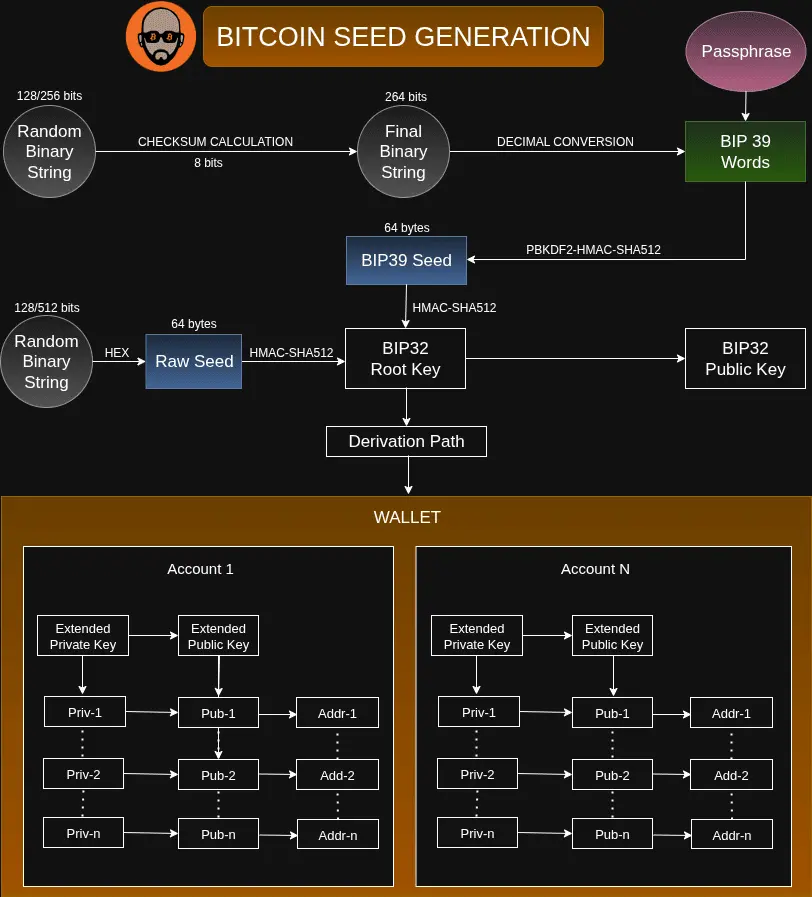
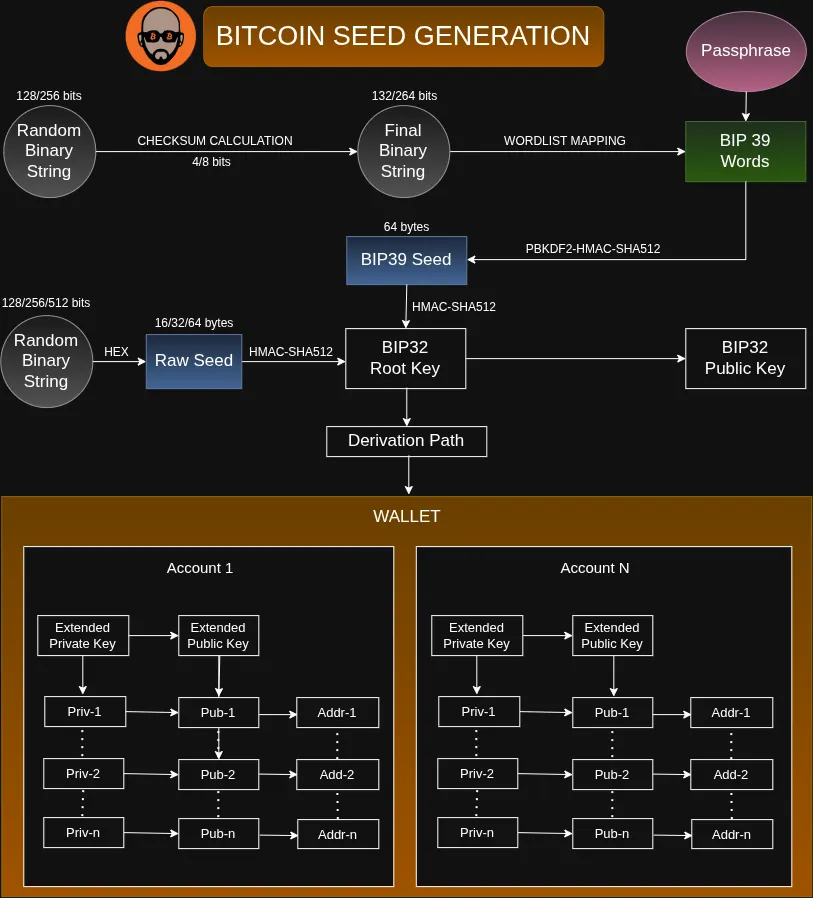
improved dice roll guide

diff --git a/src/data/schema/howTo.js b/src/data/schema/howTo.js
@@ -128,28 +128,33 @@ export const howToSchemas = {
     steps: [
       {
         name: "Roll Dice for Entropy",
-        text: "Roll dice 99 times to generate 256 bits of true random entropy. Record each roll as binary (1-3 = 0, 4-6 = 1).",
+        text: "Collect 256 individual die results to generate 256 bits of true random entropy. Record each die as binary (1-3 = 0, 4-6 = 1) in 23 rows of 11 bits plus 3 bits on row 24.",
         url: `${SITE_URL}/docs/learn/keys/random/#step-1-roll-dice-for-entropy`,
       },
       {
         name: "Convert Binary to Decimal",
-        text: "Split your binary string into 11-bit chunks and convert each chunk to a decimal number (0-2047).",
+        text: "Convert each of the first 23 eleven-bit rows to a decimal number (0-2047). Row 24 is incomplete until the checksum is calculated.",
         url: `${SITE_URL}/docs/learn/keys/random/#step-2-convert-binary-to-decimal`,
       },
       {
         name: "Calculate Checksum",
-        text: "Use SHA256 to calculate the checksum bits that complete your 24th word.",
+        text: "Hash your 256 bits with SHA-256 in bits mode to get the 8 checksum bits that complete row 24, then convert row 24 to decimal.",
         url: `${SITE_URL}/docs/learn/keys/random/#step-3-calculate-the-checksum`,
       },
       {
         name: "Look Up BIP39 Words",
-        text: "Convert each decimal number to its corresponding BIP39 word to create your 24-word seed phrase.",
+        text: "Convert each of the 24 decimal numbers to its corresponding BIP39 word to create your 24-word seed phrase.",
         url: `${SITE_URL}/docs/learn/keys/random/#step-4-look-up-bip39-words`,
       },
       {
+        name: "Verify Your Seed Phrase",
+        text: "Enter the 24 words into an offline wallet such as Sparrow. Acceptance confirms the checksum and the whole chain of calculations.",
+        url: `${SITE_URL}/docs/learn/keys/random/#step-5-verify-your-seed-phrase`,
+      },
+      {
         name: "Backup Your Seed",
-        text: "Stamp or engrave your seed phrase onto a metal plate for fireproof, waterproof storage.",
-        url: `${SITE_URL}/docs/learn/keys/random/#step-5-back-up-on-metal`,
+        text: "Stamp or engrave your seed phrase onto a metal plate for fireproof, waterproof storage, then destroy the paper records.",
+        url: `${SITE_URL}/docs/learn/keys/random/#step-6-back-up-on-metal`,
       },
     ],
   },

diff --git a/docs/learn/keys/random.md b/docs/learn/keys/random.md
@@ -29,8 +29,10 @@ Common fatal errors:
 In this guide you will:
 
 - Generate true randomness using physical dice rolls
-- Convert binary entropy to BIP39 seed words
-- Calculate and verify your checksum
+- Convert your binary entropy into decimal numbers
+- Calculate the checksum that completes the final word
+- Look up all 24 BIP39 seed words
+- Verify the finished seed in an offline wallet
 - Securely back up your seed phrase on metal
 
 **Time required:** 2–4 hours
@@ -102,7 +104,13 @@ Your seed generation environment **must** meet ALL of these requirements:
 
 ### Casino dice
 
-Casino-grade dice are ideal for generating true randomness. You don't strictly need expensive dice. Any standard six-sided dice will work, even with small biases, as long as you use several at a time. Using 5–10 dice per roll speeds the process up dramatically.
+Casino-grade dice are precision-machined with flush, filled pips, so every face weighs the same. Cheaper pipped dice have material drilled out for each pip, which makes some faces very slightly more likely than others.
+
+That bias is small and not fatal here: across 256 bits, a fraction-of-a-percent bias per face costs a negligible amount of entropy. Casino dice simply remove the question, and they are cheap.
+
+:::note More dice is about speed, not fairness
+Rolling several dice at once does **not** cancel out a die's bias. Each die still produces its own slightly biased bit. Using 5–10 dice per throw is purely a speed optimization: it collects 5–10 bits per throw instead of 1.
+:::
 
 ![Dice](/img/seed/dice.webp)
 
@@ -112,6 +120,8 @@ An air-gapped computer is a device that has never been connected to the internet
 
 - **Raspberry Pi Zero 1.3**: Highly recommended because it lacks built-in Wi-Fi and Bluetooth, reducing attack surfaces. Harder to find these days, but worth the hunt.
 - **Laptop or PC**: A machine with the Wi-Fi and Bluetooth modules physically removed and the Ethernet port permanently disabled. Even if stolen, an attacker cannot put it back online to extract the private key.
+
+You genuinely need a computer for this process. Step 1, 2, and 4 can be done with paper and pen, but **Step 3 computes a SHA-256 hash, which cannot be done by hand.**
 
 ![Raspberry Pi Zero](/img/seed/rpizero.webp)
 
@@ -126,18 +136,39 @@ Once your seed phrase is created, it should be permanently stored on a fireproof
 ![Metal seed backup](/img/seed/metalseed.webp)
 
 
+## How the Numbers Fit Together
+
+Before you start rolling, it helps to see where the process is going. A 24-word BIP39 seed is **264 bits**, and those bits come from two different places:
+
+<div class="fixed-width-table">
+
+| Where it comes from | Bits | Step |
+|---|---|---|
+| Dice rolls (your entropy) | 256 | Step 1 |
+| Checksum, calculated from those 256 bits | 8 | Step 3 |
+| **Total** | **264** | 264 ÷ 11 = **24 words** |
+
+</div>
+
+You will write your 256 dice bits into a grid of 24 rows, 11 bits per row. That fills 23 rows completely (23 × 11 = 253) and leaves **3 bits** in row 24. Row 24 stays unfinished until Step 3, when the checksum supplies its last 8 bits.
+
+This is why the steps must be done in order: **row 24 does not have a value until Step 3.**
+
+
 ## Step 1: Roll Dice for Entropy
 
-Our goal is to generate a large, truly random binary number by rolling the dice.
+Your goal is to generate a large, truly random binary number by rolling dice.
 
 ### Assign binary values
 
-Before rolling, decide how each roll is converted into a binary value. This mapping gives an equal probability of 0 or 1:
+Before rolling, decide how each die is converted into a binary value. This mapping gives an equal probability of 0 or 1:
 
 - If the die lands on **1, 2, or 3**, it is assigned a value of **0**.
 - If the die lands on **4, 5, or 6**, it is assigned a value of **1**.
 
 ### Roll and record
+
+You need **256 individual die results**, one per bit. With 5 dice that is about 52 throws; with 10 dice, about 26. Stop once you have 256 bits and discard any extras from the final throw.
 
 Roll the dice and record the results from left to right. Consistency is key: always read in the same order. If it is unclear which die is further to the left, re-roll those dice.
 
@@ -147,10 +178,11 @@ It is crucial that the data is truly random. If it lacks randomness, there is a 
 
 ### Format the output
 
-Create 23 rows of 11 binary digits each, plus a final 24th row containing only 3 digits (the remaining 8 bits of the 24th row will be filled in later by the checksum).
+Write your 256 bits into 23 rows of 11 binary digits, plus a 24th row that will hold only 3 digits for now.
 
-- For readability, separate each row into three groups: 4-4-3 (e.g., `1011 1000 101`).
-- Keep the numbers aligned in columns and leave space between rows for manual calculations later.
+- For readability, separate each full row into three groups: 4-4-3 (e.g., `1011 1000 101`).
+- Keep the numbers aligned in columns and leave space to the right of each row for the calculations in Step 2.
+- **Leave the rest of row 24 blank.** Its final 8 digits are filled in by the checksum in Step 3.
 
 <div class="fixed-width-table">
 
@@ -183,22 +215,28 @@ Create 23 rows of 11 binary digits each, plus a final 24th row containing only 3
 
 </div>
 
-You have now generated 256 bits of entropy (23 full rows of 11 bits + 3 bits on the 24th row). Each 11-bit segment will be converted into one BIP39 seed word later.
+You have now generated your 256 bits of entropy: 23 full rows of 11 bits, plus 3 bits in row 24.
 
-Dividing 256 bits by 11 gives 23.27 words, which is not a whole number. To get a clean 24-word seed, we need eight more bits, bringing the total to 264 bits (24 × 11). Those final 8 bits come from the checksum calculated in Step 3.
+**Do not roll dice for the remaining 8 bits.** They are not random data. They are the checksum, and they must be *calculated* from the 256 bits above so your wallet can detect typos later.
 
 
 ## Step 2: Convert Binary to Decimal
 
-Each of the 24 rows of 11 binary digits must be converted to a decimal number **manually** on your air-gapped computer or by using paper and pen. Never use an online tool. Copying your binary string into a web calculator could expose your seed.
+Convert **rows 1 through 23** to decimal. Each 11-bit row becomes one number, which you will use in Step 4 to look up a seed word.
 
-With 11 binary digits, the smallest number is 0 (`00000000000`) and the largest is 2047 (`11111111111`). Each decimal result will therefore fall in the range 0–2047.
+:::caution Row 24 is not ready yet
+Row 24 still has only 3 of its 11 bits, so it has no value at this stage. You will complete and convert it in Step 3. Skip it for now.
+:::
+
+Do the conversion **manually** on your air-gapped computer or with paper and pen. Never use an online tool. Copying your binary string into a web calculator could expose your seed.
+
+With 11 binary digits, the smallest number is 0 (`00000000000`) and the largest is 2047 (`11111111111`). Each result will therefore fall in the range 0–2047.
 
 You can convert in either of two ways.
 
 ### Method A: air-gapped shell
 
-For example, to convert the first line, `10111000101`, type:
+In a bash terminal, to convert the first row, `10111000101`, type:
 
 ```bash
 echo $((2#10111000101))
@@ -223,7 +261,7 @@ For example, to convert the first row, `10111000101`:
 1024 + 0 + 256 + 128 + 64 + 0 + 0 + 0 + 4 + 0 + 1 = 1477
 ```
 
-Repeat this process for all 24 rows. You will now have 24 decimal numbers, each in the range 0–2047.
+Repeat this for rows 1 through 23. You will have 23 decimal numbers, each in the range 0–2047.
 
 <div class="fixed-width-table">
 
@@ -252,34 +290,60 @@ Repeat this process for all 24 rows. You will now have 24 decimal numbers, each 
 |**21)**|0|0|1|0|1|0|0|0|1|0|1|<span style={{ color: "#da6000" }}>**325**</span>|
 |**22)**|1|0|1|1|1|0|1|0|1|0|1|<span style={{ color: "#da6000" }}>**1493**</span>|
 |**23)**|1|0|0|1|1|0|0|0|1|0|1|<span style={{ color: "#da6000" }}>**1221**</span>|
-|**24)**|0|0|1|0|1|0|1|0|0|1|0|<span style={{ color: "#da6000" }}>**338**</span>|
+|**24)**|0|0|1|–|–|–|–|–|–|–|–|*Step 3*|
 
 </div>
 
 
 ## Step 3: Calculate the Checksum
 
-The last eight missing digits are calculated from the 256 bits you have so far, creating what is called a **checksum**. A checksum is a short verification code that lets your wallet detect if you have made a typo when entering the seed. If the checksum doesn't match, the wallet will warn you that something is wrong.
+The 8 missing digits in row 24 are calculated from the 256 bits you rolled in Step 1. Together they form a **checksum**: a short verification code that lets your wallet detect if you have made a typo when entering the seed. If the checksum doesn't match, the wallet warns you that something is wrong.
+
+### Write out your 256 bits as one line
+
+Read your grid from Step 1 straight through, row 1 to row 24, left to right, with no spaces and no line breaks. Rows 1–23 contribute 11 bits each and row 24 contributes its 3 bits, for 256 characters total.
+
+For our example:
+
+```text
+1011100010111011100100101111001110110100010111111010101111110010000010000010110111000101101010101001011101110111111000101011110011101011101010010011000111101110001111111101110100011000101101010001101111101010011111000100001010001011011101010110011000101001
+```
+
+Count the characters before continuing. If you don't have exactly 256, the hash will be wrong and so will your seed.
 
 ### Generate the hash output
 
-On your air-gapped Linux machine, open a terminal and feed your 256-bit binary string into SHA-256. Replace the example digits with your own binary string; it must be one continuous line:
+On your air-gapped Linux machine, feed that 256-bit string into SHA-256:
 
 ```bash
 echo 1011100010111011100100101111001110110100010111111010101111110010000010000010110111000101101010101001011101110111111000101011110011101011101010010011000111101110001111111101110100011000101101010001101111101010011111000100001010001011011101010110011000101001 | shasum -a 256 -0
 ```
 
-This command takes your binary sequence, applies the SHA-256 hash function, and produces a unique hexadecimal output. Our example output:
+Our example output:
 
 ```text
[1 lines of base64/hex data omitted]
+52831c8346d7423d26648b51490f2d7ae0ddf172956f241a6bb8bdc0d887c292 ^-
 ```
 
-The checksum is the first **8 bits** of that hash, which means we only care about the **first two hexadecimal characters**: `52`.
+:::danger The `-0` flag is not optional
+`-0` (also written `--01`) puts `shasum` into **BITS mode**, where each `0` and `1` character is treated as an actual bit. BIP39 requires hashing the 256 raw bits, not the text `"1011…"`.
+
+Drop the `-0` and the command still runs and still prints a perfectly normal-looking hash, but it is the hash of 256 ASCII characters instead: `03ab8729…` rather than `52831c83…`. That produces a wrong checksum, a wrong 24th word, and an invalid seed phrase. The `^` in the output above is `shasum` confirming BITS mode was used.
+
+If `shasum` is unavailable, this gives the same result:
+
+```bash
+python3 -c "import hashlib; b='YOUR_256_BITS'; print(hashlib.sha256(int(b,2).to_bytes(32,'big')).hexdigest())"
+```
+
+Running both and comparing is a good way to catch a mistyped bit string.
+:::
+
+The checksum is the first **8 bits** of that hash, which means you only care about the **first two hexadecimal characters**: `52`.
 
 ### Convert the first two hex characters to binary
 
-We need to convert the two hexadecimal digits `5` and `2` into their 4-bit binary equivalents. Hexadecimal is a number system that uses 0–9 plus a–f to represent values 0–15.
+Convert the two hexadecimal digits `5` and `2` into their 4-bit binary equivalents. Hexadecimal is a number system that uses 0–9 plus a–f to represent values 0–15.
 
 <div class="fixed-width-table">
 
@@ -309,7 +373,11 @@ From the table:
 - **5** in binary is **0101** (4 bits)
 - **2** in binary is **0010** (4 bits)
 
-Concatenated, the checksum is **`01010010`** (8 bits). Append it to the 24th row so the row now has 11 bits, completing the 264-bit sequence.
+Concatenated, the checksum is **`01010010`** (8 bits).
+
+### Complete row 24
+
+Append those 8 bits to the 3 bits already in row 24. It now holds 11 bits and your grid is complete at 264 bits:
 
 <div class="fixed-width-table">
 
@@ -342,12 +410,18 @@ Concatenated, the checksum is **`01010010`** (8 bits). Append it to the 24th row
 
 </div>
 
-Now convert row 24 from binary to decimal using the same method as Step 2. That gives the final decimal value of row 24 (in our example, **338**).
+Now convert row 24 to decimal using the same method as Step 2. In our example, `00101010010` gives:
+
+```text
+0 + 0 + 256 + 0 + 64 + 0 + 16 + 0 + 0 + 2 + 0 = 338
+```
+
+You now have all **24 decimal numbers**: 23 from Step 2, plus 338 from row 24.
 
 
 ## Step 4: Look Up BIP39 Words
 
-BIP39 (Bitcoin Improvement Proposal 39) defines a list of **2048 words**, arranged alphabetically. Each word corresponds to a specific position. Your 24 decimal numbers (from Step 2 and the checksum row in Step 3) are used to look up your 24 seed words.
+BIP39 (Bitcoin Improvement Proposal 39) defines a list of **2048 words**, arranged alphabetically. Each word corresponds to a specific position, and each of your 24 decimal numbers points at one word.
 
 - The smallest possible value is 0 (binary `00000000000`), which corresponds to the word **"abandon"**, the first word on the list.
 - The largest possible value is 2047 (binary `11111111111`), which corresponds to the word **"zoo"**, the last word on the list.
@@ -356,7 +430,7 @@ BIP39 (Bitcoin Improvement Proposal 39) defines a list of **2048 words**, arrang
 Computers count from 0. The BIP39 position of "abandon" is 0, not 1. However, the [official BIP39 word list](https://github.com/bitcoin/bips/blob/master/bip-0039/english.txt) on GitHub displays line numbers starting from 1. So a BIP39 position of 1477 maps to **GitHub line 1478**. Always add 1 to your decimal when searching the GitHub file.
 :::
 
-For example, the first 11-bit binary number we calculated equals 1477 in decimal. On GitHub you will find it on line 1478: the word is **"reward"**.
+For example, the first row's decimal is 1477. On GitHub you will find it on line 1478: the word is **"reward"**.
 
 Look up each decimal value below (remembering to add 1 when searching GitHub) and record the corresponding word for all 24 rows.
 
@@ -391,16 +465,26 @@ Look up each decimal value below (remembering to add 1 when searching GitHub) an
 
 </div>
 
-Congratulations, you have now created a valid 24-word Bitcoin mnemonic seed.
+:::warning Order is part of the seed
+The words must stay in this exact order. The same 24 words in a different order is a completely different (and empty) wallet. Number every word as you write it down.
+:::
 
-### Verify the seed in Sparrow Wallet
+You have now created a 24-word Bitcoin mnemonic seed. The next step confirms it is valid.
 
-As a final sanity check, install a software wallet such as Sparrow on your air-gapped computer and enter the 24 words. If Sparrow accepts the seed, your checksum matched and the whole chain of calculations is correct. If it rejects the seed, the checksum is wrong: double-check every step, especially the SHA-256 output and the final row of binary.
+
+## Step 5: Verify Your Seed Phrase
+
+Install a software wallet such as Sparrow on your air-gapped computer and enter the 24 words in order.
+
+- **If the wallet accepts the seed**, your checksum matched, which means the whole chain of calculations is consistent. Continue to Step 6.
+- **If the wallet rejects the seed**, the checksum is wrong. Do not adjust words at random. Go back and re-check, in this order: the 256-bit string you hashed in Step 3 (exactly 256 characters, no typos), that you used the `-0` flag, the two hex characters you converted, row 24's binary, and finally the word lookups.
+
+Keep this wallet offline. It is being used to check the arithmetic, not to hold funds.
 
 ![Importing the seed into Sparrow Wallet for verification](/img/seed/import.webp)
 
 
-## Step 5: Back Up on Metal
+## Step 6: Back Up on Metal
 
 Your Bitcoin seed phrase is the key to your funds. If it is lost or compromised, your Bitcoin is gone forever. Paper and digital backups can degrade, get lost, or be destroyed. A metal seed plate is a durable, fireproof, waterproof backup that can last decades.
 
@@ -411,12 +495,14 @@ Your Bitcoin seed phrase is the key to your funds. If it is lost or compromised,
 - **Tamper resistance**: A sealed metal backup makes unauthorized access visible.
 - **Longevity**: A well-engraved or stamped metal seed plate can last a lifetime, keeping your Bitcoin recoverable for decades.
 
-### How to store your metal backup safely
+### Finish in this order
 
-- Keep it in a secure location: a safe, hidden vault, or safety deposit box.
-- Consider splitting your seed into multiple secure locations.
-- Avoid storing it digitally or in places prone to theft or destruction.
-- Once the seed is stamped into metal, **destroy the paper copy** (burn it).
+1. Stamp or engrave all 24 words onto the metal plate, numbered and in order.
+2. Read the metal plate back word by word against your paper and confirm every word and position matches.
+3. Only then, **destroy every paper record** of the process: the dice grid, the decimal calculations, and the word list. Burn them.
+4. Store the plate in a secure location: a safe, hidden vault, or safety deposit box.
+
+Consider splitting your backup across multiple secure locations, and never store the seed digitally or photograph it.
 
 Your Bitcoin is only as safe as your seed backup. Protect it wisely.
 

diff --git a/docs/learn/wallets/software-wallets.md b/docs/learn/wallets/software-wallets.md
@@ -139,7 +139,7 @@ Setting up a software wallet takes about ten minutes, but those ten minutes dese
 
 **Next, create your wallet.** Let the app generate a new seed phrase. The moment those words appear on your screen, write them down immediately: on paper, with a pen, in the exact order shown. Never screenshot your seed. Never copy and paste it. Never type it into anything except the wallet app itself. These words are the keys to your Bitcoin; treat them accordingly.
 
-**Secure the backup properly.** Your seed phrase written on paper is vulnerable to fire, water, and curious eyes. Store it somewhere safe, and consider a [metal backup](/docs/learn/keys/random/#step-5-back-up-on-metal) for long-term durability. Whatever you do, keep the backup separate from your device. If someone steals your phone and your seed backup is in the same bag, you've lost everything.
+**Secure the backup properly.** Your seed phrase written on paper is vulnerable to fire, water, and curious eyes. Store it somewhere safe, and consider a [metal backup](/docs/learn/keys/random/#step-6-back-up-on-metal) for long-term durability. Whatever you do, keep the backup separate from your device. If someone steals your phone and your seed backup is in the same bag, you've lost everything.
 
 **Set a strong PIN or password.** Most wallets let you add an extra layer of protection. Use it. Don't reuse passwords from other services: if your email password leaks, you don't want it to also unlock your Bitcoin.
 

diff --git a/docs/learn/wallets/multisig/backup-recovery.md b/docs/learn/wallets/multisig/backup-recovery.md
@@ -345,4 +345,4 @@ Your backup strategy should ensure that:
 - [Multisig Overview](/docs/learn/wallets/multisig) (understanding multisig fundamentals)
 - [Hardware Setup](/docs/learn/wallets/multisig/hardware-setup) (setting up signing devices)
 - [Sparrow Setup](/docs/learn/wallets/multisig/sparrow-setup) (creating the wallet)
-- [Seed Phrase Backup](/docs/learn/keys/random/#step-5-back-up-on-metal) (metal backup options)
+- [Seed Phrase Backup](/docs/learn/keys/random/#step-6-back-up-on-metal) (metal backup options)

diff --git a/docs/reference/faq/lost-seed.md b/docs/reference/faq/lost-seed.md
@@ -176,7 +176,7 @@ If you're reading this and still have access to your Bitcoin:
 - [ ] Make multiple copies of your seed
 - [ ] Store in geographically separate locations
 - [ ] Consider metal backup (fire/water resistant)
-- [ ] See: [Seed Backup Guide](/docs/learn/keys/random/#step-5-back-up-on-metal)
+- [ ] See: [Seed Backup Guide](/docs/learn/keys/random/#step-6-back-up-on-metal)
 
 ### 3. Document and Communicate
 - [ ] Record (securely) where backups are stored
